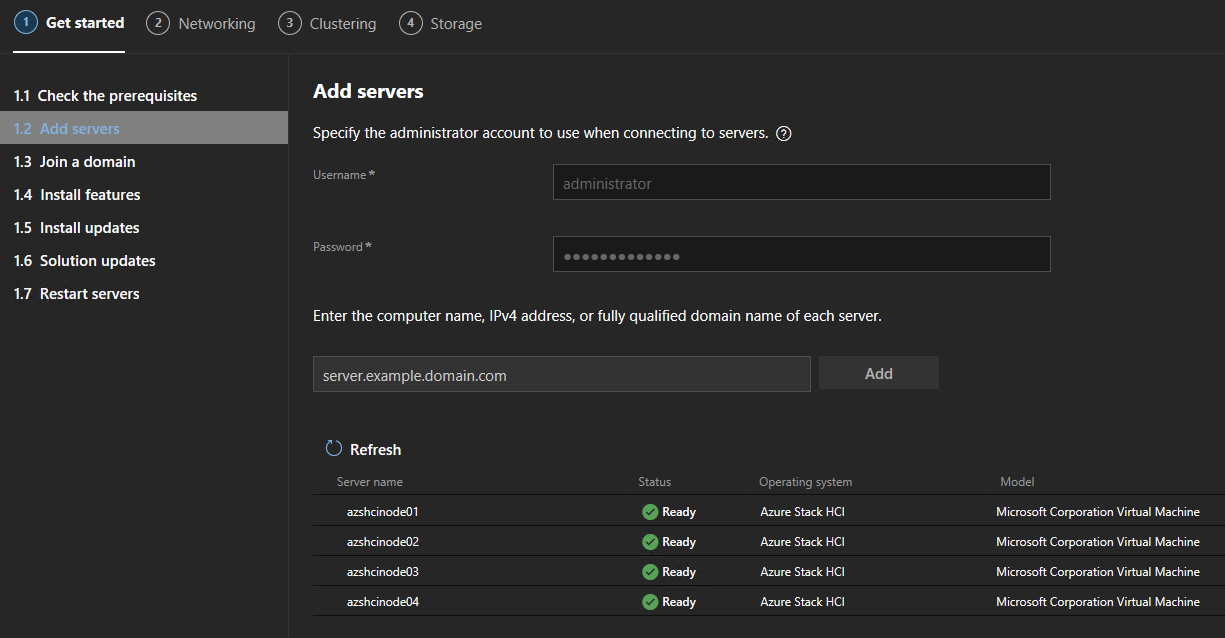
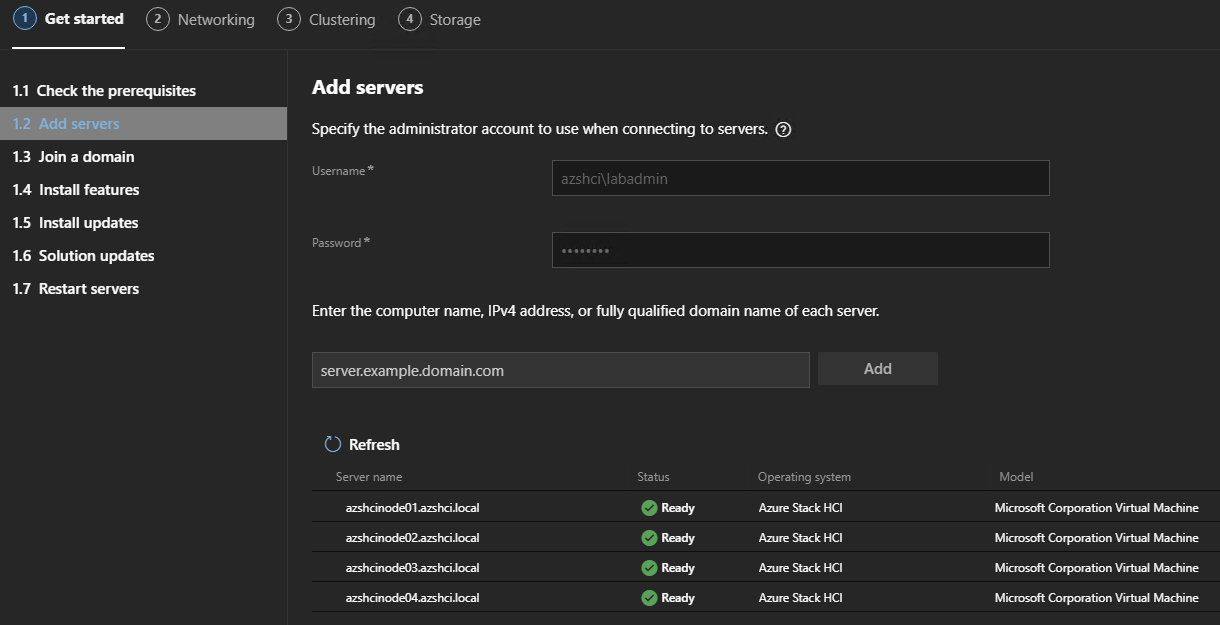
Updated image

diff --git a/universal/4_AzSHCICluster.md b/universal/4_AzSHCICluster.md
@@ -53,12 +53,12 @@ If you have just 2 nodes, or if your preference is for a cluster running in a si
 
 1. Ensure you select **Azure Stack HCI**, select **All servers in one site** and cick **Create**
 2. On the **Check the prerequisites** page, review the requirements and click **Next**
-3. On the **Add Servers** page, supply a **username**, which should be **administrator** and **password** and then one by one, enter the node names (or IP addresses if names don't resolve) of your Azure Stack HCI nodes, clicking **Add** after each one.  Each node will be validated, and given a **Ready** status when fully validated.
+3. On the **Add Servers** page, supply a **username**, which should be **azshci\labadmin** and **your-domain-admin-password** and then one by one, enter the node names (or IP addresses if names don't resolve) of your Azure Stack HCI nodes, clicking **Add** twice after each one.  Each node will be validated, and given a **Ready** status when fully validated.
 
 ![Add servers in the Create Cluster wizard](/media/add_nodes.png)
 
-4. On the **Join a domain** page, enter your domain (azshci.local from the nested path of this evaluation guide) and your **LabAdmin credentials**, then click **Apply changes** to join these machines to the domain.
-5. Windows Admin Center will then join the nodes to the domain, ready for the next step.  Once complete, click **Next**
+4. On the **Join a domain** page, details should already be in place, as we joined domain previously, so click **Next**
+5. 
 
 ![Joined the domain in the Create Cluster wizard](/media/wac_domain_joined.png)
 
